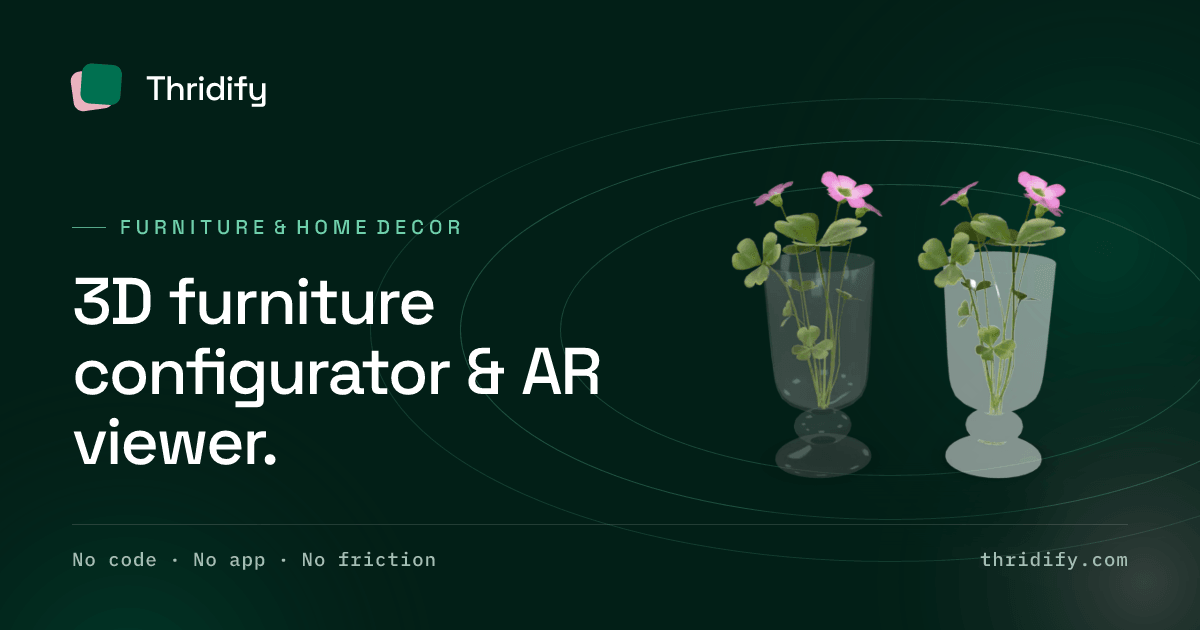
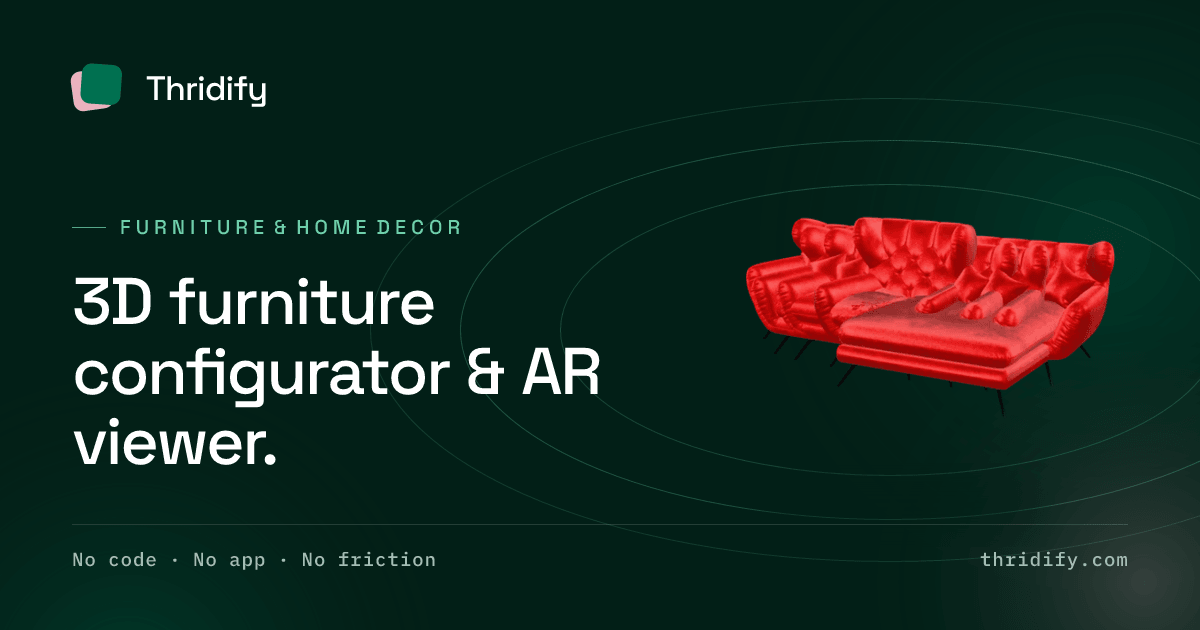
feat(dark, imagery): ink ground with raised panels; real demo-product renders on the industries hub
Dark scheme — page ground is now canonical ink #021F17 (no foreign
near-black); showroom panels lift toward teal (--brand-ink #0B2D23 = ink +
8% primary-soft) so surfaces read as lit from within the palette. All
on-panel pairs re-checked ≥ AA (paper 13.6:1, primary-soft 7.9:1,
muted-dark 7.6:1, accent 9.6:1, primary 5.0:1). theme-color follows.

Industries hub + industry OGs — the cards previously showed CC0 stand-ins
(a vase, a teacup, a lantern, a camera). They now show the REAL Thridify
demo-store product each industry page demos live: Store Modern Sofa,
Store ModularKitchen, DNV Door, RobotExpressive, Merino Marine Board —
rendered from the products' own GLBs with <model-viewer> as transparent
slow turntables / limited sways (animated WebP, 125–360 KB), with a still
frame served to reduced-motion visitors via <picture>. Prefab has no
render: its live product is an enclosed interior (docs/ASSET-DEBT.md #19).
Industry OG images composite the same stills.

Changed region(s): [[0.5858, 0.2714, 0.9558, 0.754]]

diff --git a/src/app/industries/page.tsx b/src/app/industries/page.tsx
@@ -1,6 +1,5 @@
 import type { Metadata } from 'next';
 import Link from 'next/link';
-import Image from 'next/image';
 import { Sofa, ChefHat, DoorOpen, Warehouse, Wrench, Layers, ArrowRight, type LucideIcon } from 'lucide-react';
 import { industriesContent, homeContent } from '@/lib/content';
 import { INDUSTRIES, type Industry } from '@/lib/industries';
@@ -115,25 +114,30 @@ export default function IndustriesPage() {
                   href={`/industries/${ind.slug}`}
                   className="group card p-8 flex flex-col hover:-translate-y-1 transition-ui overflow-hidden"
                 >
-                  {/* Still render of the industry's own demo model (the
-                      seamless poster the detail page ships) on a soft
-                      brand-light field — no fabricated product imagery;
-                      industries without a poster keep the icon only. */}
+                  {/* The REAL Thridify demo product this industry's page shows
+                      live, rendered from its own GLB (Industry.hubArt): a slow
+                      animated WebP on a soft brand-light field, with the still
+                      frame for reduced-motion visitors. No fabricated imagery;
+                      industries without a usable render keep the icon only. */}
                   <span className="relative flex items-end justify-between mb-6 min-h-12">
                     <span className="w-12 h-12 rounded-xl bg-primary/10 text-primary flex items-center justify-center group-hover:bg-primary group-hover:text-primary-contrast transition-colors">
                       <Icon className="w-6 h-6" strokeWidth={1.5} aria-hidden />
                     </span>
-                    {ind.demoPoster && (
-                      <span className="relative w-28 h-28 -mr-4 -mt-6 shrink-0" aria-hidden>
-                        <span className="absolute inset-0 rounded-full bg-primary/10 blur-2xl group-hover:bg-primary/15 transition-colors" />
-                        <Image
-                          src={ind.demoPoster}
-                          alt=""
-                          width={112}
-                          height={112}
-                          className="relative w-full h-full object-contain drop-shadow-md transition-transform duration-500 group-hover:-translate-y-1 group-hover:scale-[1.03]"
-                          unoptimized
-                        />
+                    {ind.hubArt && (
+                      <span className="relative w-36 h-36 -mr-6 -mt-10 shrink-0">
+                        <span className="absolute inset-3 rounded-full bg-primary/10 blur-2xl group-hover:bg-primary/15 transition-colors" aria-hidden />
+                        <picture>
+                          <source srcSet={ind.hubArt.still} media="(prefers-reduced-motion: reduce)" />
+                          <img
+                            src={ind.hubArt.turn}
+                            alt={ind.hubArt.alt}
+                            width={480}
+                            height={480}
+                            loading="lazy"
+                            decoding="async"
+                            className="relative w-full h-full object-contain drop-shadow-lg transition-transform duration-500 group-hover:-translate-y-1 group-hover:scale-[1.03]"
+                          />
+                        </picture>
                       </span>
                     )}
                   </span>

diff --git a/src/lib/industries.ts b/src/lib/industries.ts
@@ -69,6 +69,15 @@ export type Industry = {
       docs/ASSET-DEBT.md). Real client models replace these later (#16). */
   demoModel?: string;
   demoPoster?: string;
+  /** Hub-card + OG artwork: a transparent render of the REAL Thridify
+      demo-store product this industry's live hero shows (INDUSTRY_EXPERIENCE
+      in src/lib/thridify.ts), rendered from the product's own GLB with
+      <model-viewer> — `still` is one frame, `turn` a slow animated WebP
+      (turntable or a limited sway where the object only reads from one
+      side). Served with a reduced-motion <picture> fallback to the still.
+      Absent when the live product has no usable object render (prefab's
+      "realistic room" is an enclosed interior — docs/ASSET-DEBT.md #19). */
+  hubArt?: { still: string; turn: string; alt: string };
   primaryKeyword: string;
   keywords: string[];
   seoTitle: string;
@@ -97,6 +106,11 @@ export const INDUSTRIES: Industry[] = [
     heroDemo: 'ar',
     demoModel: '/models/furniture-vase.glb',
     demoPoster: '/models/furniture-vase-poster.webp',
+    hubArt: {
+      still: '/models/hub-furniture-still.webp',
+      turn: '/models/hub-furniture-turn.webp',
+      alt: 'Store Modern Sofa — the live Thridify demo product on this page, rendered in 3D',
+    },
     primaryKeyword: '3D furniture configurator',
     keywords: [
       '3D furniture configurator',
@@ -167,6 +181,11 @@ export const INDUSTRIES: Industry[] = [
     heroDemo: 'configurator',
     demoModel: '/models/kitchen-teacup.glb',
     demoPoster: '/models/kitchen-teacup-poster.webp',
+    hubArt: {
+      still: '/models/hub-kitchen-still.webp',
+      turn: '/models/hub-kitchen-turn.webp',
+      alt: 'Store ModularKitchen — the live Thridify demo kitchen on this page, rendered in 3D',
+    },
     primaryKeyword: 'modular kitchen 3D design tool',
     keywords: [
       'modular kitchen 3D design tool',
@@ -237,6 +256,11 @@ export const INDUSTRIES: Industry[] = [
     heroDemo: 'configurator',
     demoModel: '/models/doors-lantern.glb',
     demoPoster: '/models/doors-lantern-poster.webp',
+    hubArt: {
+      still: '/models/hub-door-still.webp',
+      turn: '/models/hub-door-turn.webp',
+      alt: 'DNV Door — the live Thridify demo door on this page, rendered in 3D',
+    },
     primaryKeyword: 'door & window configurator',
     keywords: [
       'door & window configurator',
@@ -375,6 +399,11 @@ export const INDUSTRIES: Industry[] = [
     heroDemo: 'viewer',
     demoModel: '/models/machinery-camera.glb',
     demoPoster: '/models/machinery-camera-poster.webp',
+    hubArt: {
+      still: '/models/hub-robot-still.webp',
+      turn: '/models/hub-robot-turn.webp',
+      alt: 'RobotExpressive — the live Thridify automation demo on this page, rendered in 3D',
+    },
     primaryKeyword: '3D product viewer for machinery',
     keywords: [
       '3D product viewer for machinery',
@@ -445,6 +474,11 @@ export const INDUSTRIES: Industry[] = [
     heroDemo: 'configurator',
     demoModel: '/models/surfaces-material.glb',
     demoPoster: '/models/surfaces-material-poster.webp',
+    hubArt: {
+      still: '/models/hub-laminate-still.webp',
+      turn: '/models/hub-laminate-turn.webp',
+      alt: 'Merino Marine Board — the live Thridify demo laminate on this page, rendered in 3D',
+    },
     primaryKeyword: 'laminate visualizer',
     keywords: [
       'laminate visualizer',

diff --git a/src/app/globals.css b/src/app/globals.css
@@ -59,8 +59,11 @@
 /* ─────────────────────────────────────────────────────────────────────────
    Dark scheme — first-class theme, driven by the OS preference (no toggle).
    Only the TOKENS change; every component reads through them. The rules:
-     • the ink sections stay canonical #021F17 — the page ground drops BELOW
-       ink (#050F0C) so the showroom bands still read as lit panels;
+     • the page ground IS canonical ink #021F17 — the brand's own dark, no
+       foreign black — and the showroom panels (hero, metric bar, story,
+       CTA bands, footer) lift toward teal instead: --brand-ink becomes
+       #0B2D23 (ink + 8% primary-soft), so surfaces read as lit from within
+       the palette, not as a page dropping below it;
      • teal fills brighten to #22A97E (6.5:1 on the dark ground as text) and
        carry INK text instead of white (5.8:1) — white on any teal that passes
        as text on dark can't reach AA, so the button polarity flips;
@@ -69,17 +72,20 @@
      • selector specificity (:root:not([data-theme=light]) = 0,2,0) beats the
        plain :root palette re-declared inline in layout.tsx regardless of
        source order, and an explicit data-theme wins in both directions.
-   Contrast floors (all ≥ AA): text 17.3:1 · muted 7.8:1 · primary 6.5:1 ·
-   ink-on-primary 5.8:1 · ink-on-primary-deep 4.9:1 · danger 7.0:1.
+   Contrast floors (all ≥ AA) on the ground: text 17.3:1 · muted 7.8:1 ·
+   primary 6.5:1 · ink-on-primary 5.8:1 · ink-on-primary-deep 4.9:1 ·
+   danger 7.0:1. On the raised panels: paper 13.6:1 · primary-soft 7.9:1 ·
+   muted-dark 7.6:1 · accent 9.6:1 · primary 5.0:1.
    ───────────────────────────────────────────────────────────────────── */
 @media (prefers-color-scheme: dark) {
   :root:not([data-theme="light"]) {
     --brand-primary: #22A97E;
     --brand-primary-deep: #1A9A72;
     --brand-primary-contrast: #021F17;
-    --brand-bg: #050F0C;
+    --brand-bg: #021F17;
+    --brand-ink: #0B2D23;
     --brand-paper: #F1F6F3;
-    --brand-surface: #0A1A15;
+    --brand-surface: #0B2D23;
     --brand-text: #ECF3EF;
     --brand-text-muted: #8FAA9E;
     --brand-border: rgba(236, 243, 239, 0.1);
@@ -97,9 +103,10 @@
   --brand-primary: #22A97E;
   --brand-primary-deep: #1A9A72;
   --brand-primary-contrast: #021F17;
-  --brand-bg: #050F0C;
+  --brand-bg: #021F17;
+  --brand-ink: #0B2D23;
   --brand-paper: #F1F6F3;
-  --brand-surface: #0A1A15;
+  --brand-surface: #0B2D23;
   --brand-text: #ECF3EF;
   --brand-text-muted: #8FAA9E;
   --brand-border: rgba(236, 243, 239, 0.1);

diff --git a/src/app/layout.tsx b/src/app/layout.tsx
@@ -55,7 +55,7 @@ export const metadata: Metadata = {
 export const viewport: Viewport = {
   themeColor: [
     { media: '(prefers-color-scheme: light)', color: '#FFFFFF' },
-    { media: '(prefers-color-scheme: dark)', color: '#050F0C' },
+    { media: '(prefers-color-scheme: dark)', color: '#021F17' },
   ],
 };
 

diff --git a/docs/ASSET-DEBT.md b/docs/ASSET-DEBT.md
@@ -23,7 +23,7 @@ entries; only the user (or real assets) can clear them.
 | 14 | Real product-render OG images (1200×630) per page | **REBUILT IN THE LUXURY DESIGN LANGUAGE (2026-09-09):** `scripts/generate-og.mjs` now renders via satori + resvg (Space Grotesk / Inter / IBM Plex Mono, fetched + cached on first run) — ink ground, layered teal + one-pink light fields, hairline orbits, mono kicker — and composites the page's OWN seamless demo poster (`public/models/*-poster.webp`, the CC0 stand-ins of #19) where one exists (home/default/platform/3D-modelling → chair; five industries → their industry model; prefab has none). Added per-page OGs for `/features`, `/what-is-thridify`, `/industries`, `/integrations` and all 12 `/integrations/<slug>` (typographic, no third-party logos). Still placeholders in the sense of #16/#19: when real client models land, re-render the posters and re-run the script. Previously: brand-colored generated statics at `public/og/*.png` (regenerate with `node scripts/generate-og.mjs`); wired via per-page `openGraph.images` + `metadataBase` (SITE_URL env, currently the workers.dev preview — switch to the production host at Phase 7). **CHUNK 3 (2026-08-02) added six per-industry OGs** `public/og/industry-<slug>.png` (furniture, modular-kitchens, doors-and-windows, prefab-structures, industrial-machinery, laminates-surfaces) — same brand-placeholder treatment; replace each with a real per-industry product render | 2, 6, 7 |
 | 15 | Real team / office / founder photography for the About page (or a decision to stay abstract) | Phase 2 removed ALL Unsplash stock (DESIGN-SPEC §6); About now uses brand logo-geometry only | 2, 6 |
 | 16 | **Real Thridify experience embeds** (the actual configurator on the actual SDK) for the hero, the BeforeAfter "live 3D", and every `CapabilityDemo` (home trio + platform) | Placeholder first-party CC0 SheenChair (`public/models/sheen-chair.glb`) driven via `<model-viewer>`. Blocked on the SDK standalone-embed work specified in `docs/integration/HERO-EMBED-REQUIREMENTS.md` + `SDK-EMBED-PROPOSAL.md` (stable experience id, `thridify-marketing` demo account, origin allowlist, poster/LCP contract, events API). When it lands: swap `<model-viewer>` for `Thridify.mount()`, and regenerate every poster from the real experience's first frame (#9 rule). Also supplies the real product photo + matching model for the BeforeAfter "flat photo vs same product in 3D" comparison | 2, 5, 6 |
-| 19 | **Per-industry demo models (Phase 3 Wave A, CHUNK 3, 2026-08-02).** Each industry page now shows a DISTINCT, industry-relevant CC0 model instead of the generic hero chair, via `CapabilityDemo` `model`/`poster`/`modelLabel` props + `Industry.demoModel/demoPoster` (`src/lib/industries.ts`). All self-hosted in `public/models/`, draco+WebP-optimised ≤2MB, with seamless posters (§6). Provenance: `public/models/SOURCES.md` (all CC0 1.0, Khronos glTF-Sample-Assets). Mapping: furniture→GlassVaseFlowers (home decor, good); modular-kitchens→teacup (closest CC0 kitchenware — want a real cabinet/kitchen unit); doors-and-windows→Lantern (closest CC0 glass fixture — want a real door/window); industrial-machinery→AntiqueCamera (closest CC0 mechanical apparatus — want real equipment); laminates-surfaces→MetalRoughSpheres material sample (reasonable). **PREFAB & MODULAR STRUCTURES: NO usable CC0 structure/building model exists** (VirtualCity = testing-license-only; Sponza = LFS-gated), so `/industries/prefab-structures` still uses the chair fallback — awaiting a real structure model. ALL SIX ultimately want real client models (#16); replace + regenerate posters then | 2, 6 |
+| 19 | **HUB CARDS + INDUSTRY OGs NOW SHOW THE REAL DEMO-STORE PRODUCTS (2026-09-09):** `Industry.hubArt` renders (`public/models/hub-<x>-{still,turn}.webp`) are transparent turntables/sways of the ACTUAL Thridify demo products each industry page shows live (Store Modern Sofa, Store ModularKitchen, DNV Door, RobotExpressive, Merino Marine Board), rendered from their own GLBs with `<model-viewer>` (scratchpad `render-turntable.mjs` + `assemble.mjs`; re-render when the demo products change). Prefab has none: its live product ("realistic room") is an enclosed interior with a roof — no usable object render; wants a real prefab/cabin model. The CC0 stand-ins below remain ONLY as the `CapabilityDemo` fallback models. **Per-industry demo models (Phase 3 Wave A, CHUNK 3, 2026-08-02).** Each industry page now shows a DISTINCT, industry-relevant CC0 model instead of the generic hero chair, via `CapabilityDemo` `model`/`poster`/`modelLabel` props + `Industry.demoModel/demoPoster` (`src/lib/industries.ts`). All self-hosted in `public/models/`, draco+WebP-optimised ≤2MB, with seamless posters (§6). Provenance: `public/models/SOURCES.md` (all CC0 1.0, Khronos glTF-Sample-Assets). Mapping: furniture→GlassVaseFlowers (home decor, good); modular-kitchens→teacup (closest CC0 kitchenware — want a real cabinet/kitchen unit); doors-and-windows→Lantern (closest CC0 glass fixture — want a real door/window); industrial-machinery→AntiqueCamera (closest CC0 mechanical apparatus — want real equipment); laminates-surfaces→MetalRoughSpheres material sample (reasonable). **PREFAB & MODULAR STRUCTURES: NO usable CC0 structure/building model exists** (VirtualCity = testing-license-only; Sponza = LFS-gated), so `/industries/prefab-structures` still uses the chair fallback — awaiting a real structure model. ALL SIX ultimately want real client models (#16); replace + regenerate posters then | 2, 6 |
 | 18 | **Positioning correction — "3D Content Generation" → "3D Modelling Service" (Phase 3 Wave A, CHUNK 1, 2026-08-02).** Thridify does NOT do automated 3D content generation; module #4 is now a human-delivered **3D Modelling Service** (catalog → photoreal glTF/GLB/USDZ, done-for-you). Replaced sitewide: `content/site.json` (platform product #4 id `content`→`modelling`, platform hero subtitle, about mission body, furniture industry blurb, footer Platform link → `/services/3d-modelling`); `ProductVisual` variant `content`→`modelling`; `/platform` metadata + a deep-dive link to the service page; new SEO page `src/app/services/3d-modelling/page.tsx` (Service + FAQPage + BreadcrumbList JSON-LD, wedge copy) added to sitemap + linked from every industry page; new OG `public/og/services-3d-modelling.png`. **KNOWLEDGE-BANK CORRECTION NEEDED (out of repo scope — orchestrator action):** the `thridify-business` KNOWLEDGE-BANK skill still lists "3D Content Generation" as product #4 and must be corrected to "3D Modelling Service" so future generations don't reintroduce the automated-content-gen claim | done — verify KB corrected before Phase 7 |
 | 20 | **`/robots.txt` + `/llms.txt` platform-edge interception + Cloudflare content-signals robots (Phase 3 Wave B, CHUNK 4, 2026-08-03).** The site now serves its own `/robots.txt` (AI-crawler allowlist: OAI-SearchBot, ChatGPT-User, GPTBot, ClaudeBot, Claude-Web, Google-Extended, PerplexityBot, Applebot-Extended + `Sitemap:` ref) and `/llms.txt` (canonical description + factual bullets) via route handlers (`src/app/robots.txt/route.ts`, `src/app/llms.txt/route.ts`). **Two edge caveats, NOT fixable in this repo:** (a) On the platform host `team-website-moj7aqqd.sites.tyashin.com`, the Tyashin platform edge INTERCEPTS **`/robots.txt`, `/sitemap.xml` AND `/llms.txt`** (same mechanism as `/blog`, #17 — no `X-Robots-Tag` on those responses proves our Worker never ran) and serves platform-owned versions: a generic `User-agent: *` robots, a 3-URL default sitemap (`/`, `/contact`, `/about` only — NOT our 19-URL sitemap), and a 404 for `/llms.txt`. Normal HTML pages (incl. the new `/what-is-thridify` and `/compare/*`) DO dispatch to our Worker on this host and are correct; only these three SEO endpoints are edge-owned. **Phase-7 action (platform admin):** set the per-page ownership override to `storefront` for `/robots.txt`, `/sitemap.xml` and `/llms.txt` so the site's own Worker serves them on any custom domain routed through the platform edge. The raw worker host serves all three correctly today (verified 2026-08-03: robots ours + all 8 AI bots + Sitemap ref; llms.txt 200 with canonical description; sitemap 19 URLs). (b) On the raw worker host `site-thridify.snowy-cherry-cd2c.workers.dev`, `/robots.txt` may be overridden by Cloudflare's managed "content-signals" robots.txt (a workers.dev-level feature) — confirm our route wins after this deploy; if not, it is a Cloudflare zone setting, not a repo defect. **Both are Phase-7 verification items on the real production host.** | 7 |
 | 21 | **Growth-surface canonical/OG/llms URLs still point at the preview host.** `/what-is-thridify`, `/compare/*`, `/llms.txt` and all new schema `url`/`sameAs`/breadcrumb `item` values resolve against `SITE_URL` (currently the workers.dev preview). The Phase-7 cutover must set `SITE_URL=https://www.thridify.com` (or the chosen canonical host) in the deploy env so every canonical, OG, sitemap and llms.txt URL flips together. Logged, not blocking (per contract). | 7 |
